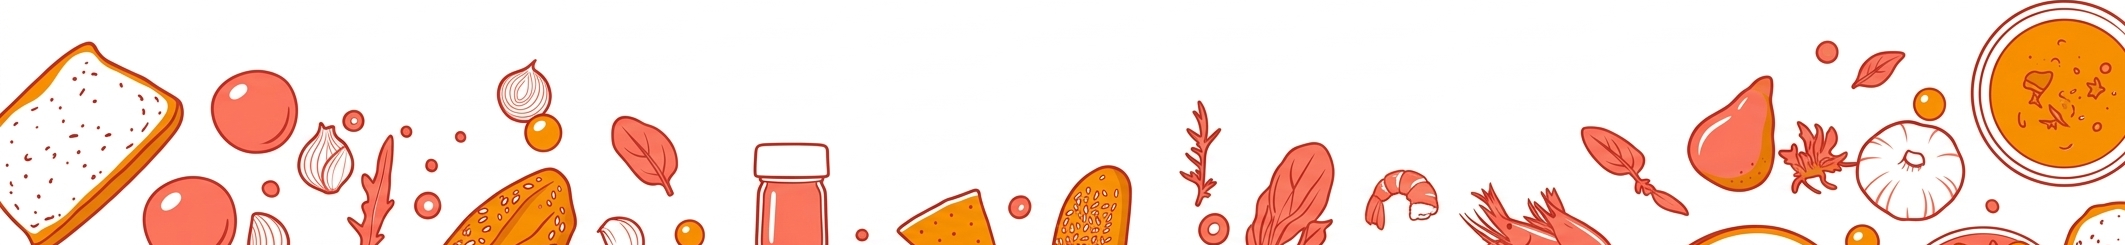
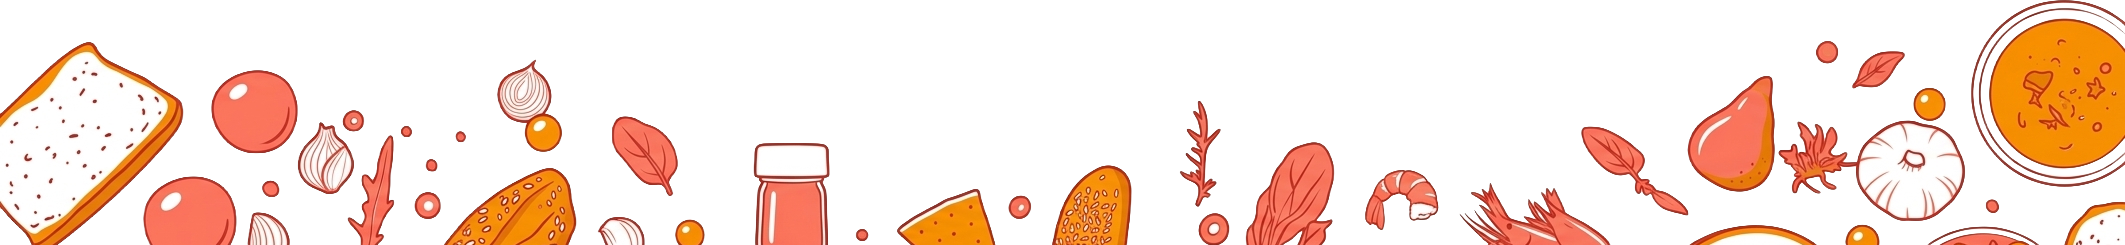
patch work of favourite

diff --git a/FRONTEND/src/pages/Favourite.jsx b/FRONTEND/src/pages/Favourite.jsx
@@ -32,7 +32,9 @@ const Favourite = () => {
                 for (const recipeId of user.favorites) {
                     try {
                         const recipe = await getRecipe(recipeId);
-                        recipes.push(recipe);
+                        if (recipe && recipe._id && recipe.title) {
+                            recipes.push(recipe);
+                        } 
                     } catch (err) {
                         console.error(`Error fetching recipe ${recipeId}:`, err);
                     }
@@ -40,6 +42,11 @@ const Favourite = () => {
             }
 
             setFavoriteRecipes(recipes);
+            const user = JSON.parse(localStorage.getItem("user"));
+            if (user) {
+                user.favorites = recipes.map(r => r._id);
+                localStorage.setItem("user", JSON.stringify(user));
+            }
             setLoading(false);
         } catch (err) {
             console.error("Error loading favorites:", err);

diff --git a/FRONTEND/src/pages/AddRecipe.jsx b/FRONTEND/src/pages/AddRecipe.jsx
@@ -40,11 +40,11 @@ const AddRecipe = () => {
         transition={{ type: "spring", stiffness: 120, damping: 20 }}
         className="flex justify-center items-center min-h-screen px-2 sm:px-6 lg:px-8 py-8"
       >
+        <AnimatedBackground />
         <form
           onSubmit={handleSubmit}
           className="w-full max-w-md sm:max-w-lg md:max-w-xl p-4 sm:p-8 rounded-lg shadow-md bg-white"
         >
-          <AnimatedBackground />
           <motion.h1
             initial={{ y: -50, opacity: 0 }}
             animate={{ y: 0, opacity: 1 }}
